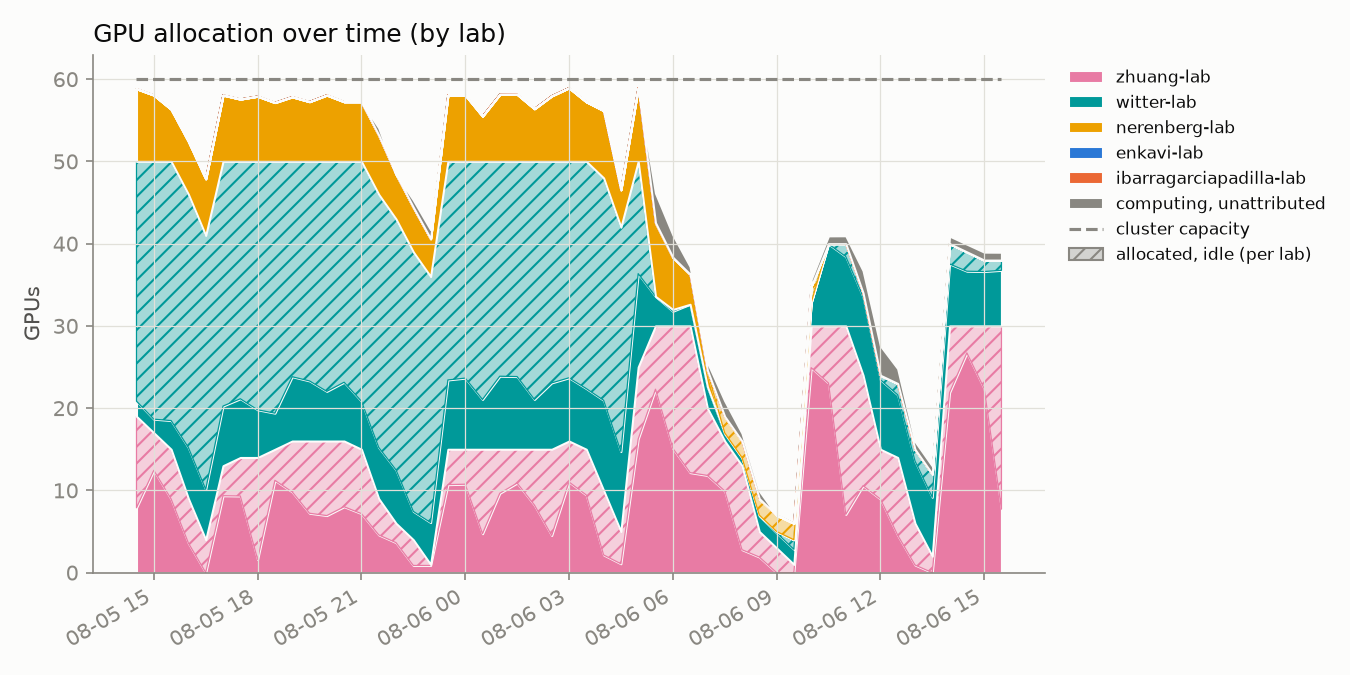
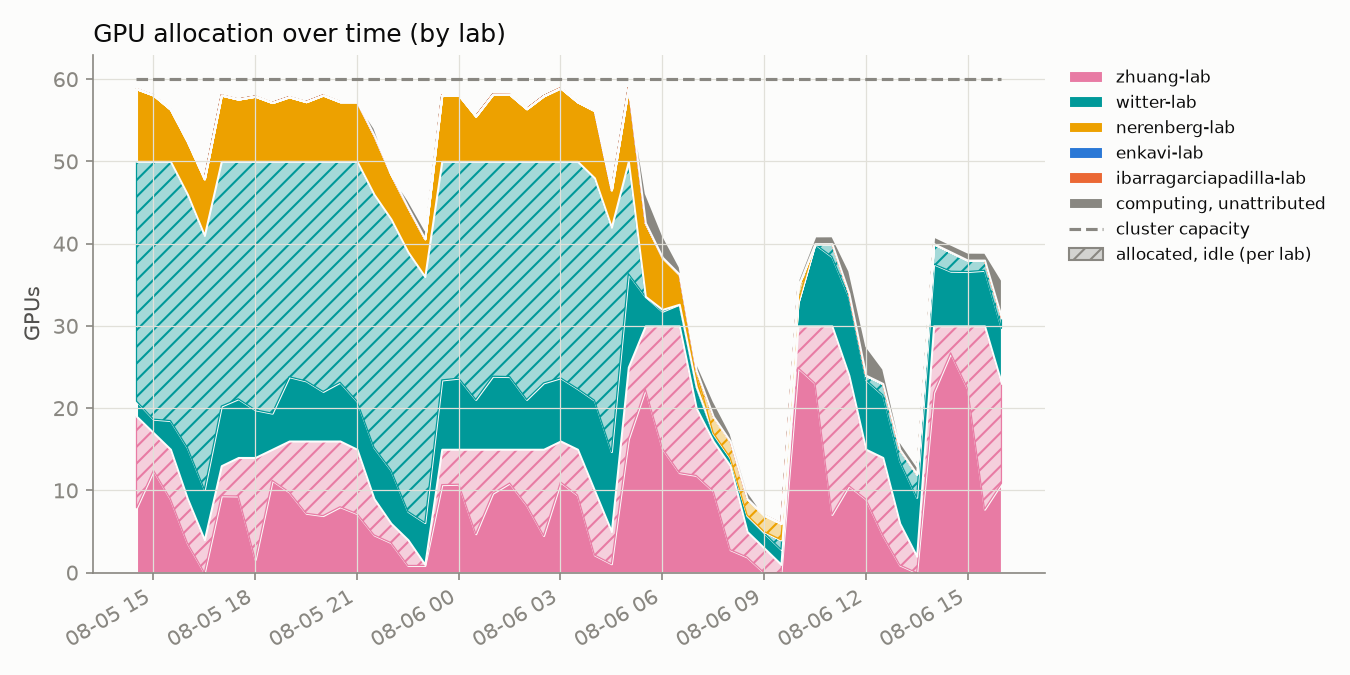
update 2026-08-06T16:00:01-07:00

diff --git a/README.md b/README.md
@@ -2,8 +2,8 @@
 
 Automated GPU/CPU/queue utilization tracker for `hopper.cluster`, updated every 30 minutes by cron. Usernames are anonymized to a stable per-account pseudonym; lab names are real.
 
-Last updated: 2026-08-06T15:30:21-07:00
-Samples: 51 queue snapshots, 51 GPU snapshots
+Last updated: 2026-08-06T16:00:19-07:00
+Samples: 52 queue snapshots, 52 GPU snapshots
 
 ## Resources
 
@@ -16,8 +16,8 @@ Samples: 51 queue snapshots, 51 GPU snapshots
 
 ## Headline
 
-- **67.4%** of the cluster's 60 GPUs allocated, averaged across all samples
-- **41.5%** average `nvidia-smi` utilization *when* a GPU is allocated to a job
+- **67.1%** of the cluster's 60 GPUs allocated, averaged across all samples
+- **41.6%** average `nvidia-smi` utilization *when* a GPU is allocated to a job
 - **82.8%** average cgroup CPU utilization *when* a CPU is allocated to a job
 
 ## Per lab / per user
@@ -25,14 +25,14 @@ Samples: 51 queue snapshots, 51 GPU snapshots
 <table>
 <tr><th>Lab</th><th>User</th><th align='right'>GPU-hours allocated</th><th align='right'>CPU-hours allocated</th><th align='right'>GPU utilization</th></tr>
 <tr style='background-color:#d8efef'><td>witter-lab</td><td>user-d58f5a15</td><td align='right'>467.5</td><td align='right'>3740.0</td><td align='right'>9%</td></tr>
-<tr style='background-color:#fbebf1'><td>zhuang-lab</td><td>user-0db9ced0</td><td align='right'>407.0</td><td align='right'>407.0</td><td align='right'>49%</td></tr>
-<tr style='background-color:#d8efef'><td>witter-lab</td><td>user-554c620c</td><td align='right'>116.5</td><td align='right'>229.5</td><td align='right'>68%</td></tr>
+<tr style='background-color:#fbebf1'><td>zhuang-lab</td><td>user-0db9ced0</td><td align='right'>418.5</td><td align='right'>418.5</td><td align='right'>49%</td></tr>
+<tr style='background-color:#d8efef'><td>witter-lab</td><td>user-554c620c</td><td align='right'>120.5</td><td align='right'>234.0</td><td align='right'>68%</td></tr>
 <tr style='background-color:#fcf0d8'><td>nerenberg-lab</td><td>user-6bb5f332</td><td align='right'>40.0</td><td align='right'>200.0</td><td align='right'>71%</td></tr>
 <tr style='background-color:#fcf0d8'><td>nerenberg-lab</td><td>user-b12dc074</td><td align='right'>0.0</td><td align='right'>16.0</td><td align='right'>—</td></tr>
+<tr style='background-color:#dfeaf8'><td>enkavi-lab</td><td>user-c21bdaa4</td><td align='right'>0.0</td><td align='right'>26.0</td><td align='right'>—</td></tr>
+<tr style='background-color:#fce8e0'><td>ibarragarciapadilla-lab</td><td>user-3cfc41a3</td><td align='right'>0.0</td><td align='right'>2737.5</td><td align='right'>—</td></tr>
+<tr style='background-color:#fce8e0'><td>ibarragarciapadilla-lab</td><td>user-dad71a72</td><td align='right'>0.0</td><td align='right'>1.0</td><td align='right'>—</td></tr>
 <tr style='background-color:#fce8e0'><td>ibarragarciapadilla-lab</td><td>user-eec7ffae</td><td align='right'>0.0</td><td align='right'>234.5</td><td align='right'>—</td></tr>
-<tr style='background-color:#dfeaf8'><td>enkavi-lab</td><td>user-c21bdaa4</td><td align='right'>0.0</td><td align='right'>24.0</td><td align='right'>—</td></tr>
-<tr style='background-color:#fce8e0'><td>ibarragarciapadilla-lab</td><td>user-dad71a72</td><td align='right'>0.0</td><td align='right'>0.5</td><td align='right'>—</td></tr>
-<tr style='background-color:#fce8e0'><td>ibarragarciapadilla-lab</td><td>user-3cfc41a3</td><td align='right'>0.0</td><td align='right'>2700.0</td><td align='right'>—</td></tr>
 </table>
 
 ## Usage over time
@@ -43,7 +43,7 @@ Samples: 51 queue snapshots, 51 GPU snapshots
 
 Solid = utilized by lab, hatched = allocated but idle, gray = usage not traceable to a lab, dashed line = cluster capacity.
 
-Attribution combines `nvidia-smi`'s process listing with Slurm's GPU-to-job binding record; the latter caught **1563** readings the former missed.
+Attribution combines `nvidia-smi`'s process listing with Slurm's GPU-to-job binding record; the latter caught **1587** readings the former missed.
 
 ## Queue
 
@@ -55,13 +55,13 @@ Attribution combines `nvidia-smi`'s process listing with Slurm's GPU-to-job bind
 
 ![CPU usage vs GPU usage, decayed](assets/cpu_gpu_usage.png)
 
-One point per user per snapshot (n=282), usage decayed on Slurm's ~7-day fairshare half-life.
+One point per user per snapshot (n=287), usage decayed on Slurm's ~7-day fairshare half-life.
 
 **GPU usage doesn't count toward priority on this cluster** (`TRESBillingWeights`/`PriorityWeightTRES` unset) - watch the **upper-left**: low CPU usage (high priority) with high GPU usage.
 
 ## Recommendations
 
-1. **Weight GPU usage in fairshare.** `TRESBillingWeights` and `PriorityWeightTRES` are both unset right now, so Slurm's fairshare score only sees CPU-seconds - a job holding 4 idle L40S GPUs costs nothing in priority as long as it isn't also holding CPUs. That's the exact failure mode the scatter above is built to catch (upper-left: low CPU usage, high GPU usage). Fix: `scontrol update partition=main TRESBillingWeights=CPU=1.0,GRES/gpu=<weight>` (or set `PriorityWeightTRES` cluster-wide), then `scontrol reconfigure` - a full `slurmctld` restart also works but drops in-flight priority state. A reasonable starting point for `<weight>` is the CPUs-per-GPU ratio on a GPU node (128 CPUs / 4 GPUs = 32), so one GPU costs as much fairshare as the CPU share it displaces; tune from there against next week's headline numbers (67.4% allocated, 41.5% utilized when allocated, as of this snapshot). The weight value itself is a policy call - loop in whoever owns cluster allocation policy before changing it.
+1. **Weight GPU usage in fairshare.** `TRESBillingWeights` and `PriorityWeightTRES` are both unset right now, so Slurm's fairshare score only sees CPU-seconds - a job holding 4 idle L40S GPUs costs nothing in priority as long as it isn't also holding CPUs. That's the exact failure mode the scatter above is built to catch (upper-left: low CPU usage, high GPU usage). Fix: `scontrol update partition=main TRESBillingWeights=CPU=1.0,GRES/gpu=<weight>` (or set `PriorityWeightTRES` cluster-wide), then `scontrol reconfigure` - a full `slurmctld` restart also works but drops in-flight priority state. A reasonable starting point for `<weight>` is the CPUs-per-GPU ratio on a GPU node (128 CPUs / 4 GPUs = 32), so one GPU costs as much fairshare as the CPU share it displaces; tune from there against next week's headline numbers (67.1% allocated, 41.6% utilized when allocated, as of this snapshot). The weight value itself is a policy call - loop in whoever owns cluster allocation policy before changing it.
 
 2. **Escalate on sustained low utilization** (see table and scatter above). Right now the clearest candidate is `user-d58f5a15` in `witter-lab`: 467.5 GPU-hours allocated at 9% average utilization, i.e. roughly 424 GPU-hours that sat idle instead of going to someone in the queue. Turning that into an automated escalation needs two decisions made up front: a utilization threshold (something like under 20% mean utilization over at least 50 allocated GPU-hours is a defensible starting bar - loose enough to skip short debugging runs, tight enough to catch parked allocations) and a grace period (how many consecutive low-utilization snapshots before it counts as "sustained" rather than a momentary lull between batches). Once those are set, the mechanism can be either soft (a bot that reads `data/gpu_samples.jsonl` and reminds the user/lab by email or Slack) or hard (a Slurm-side QOS penalty, e.g. `sacctmgr modify qos <qos> set Priority-=<n>`, applied after N consecutive offending snapshots). Neither exists yet - today the table and scatter above are a read-only signal, not an enforced policy.
 
